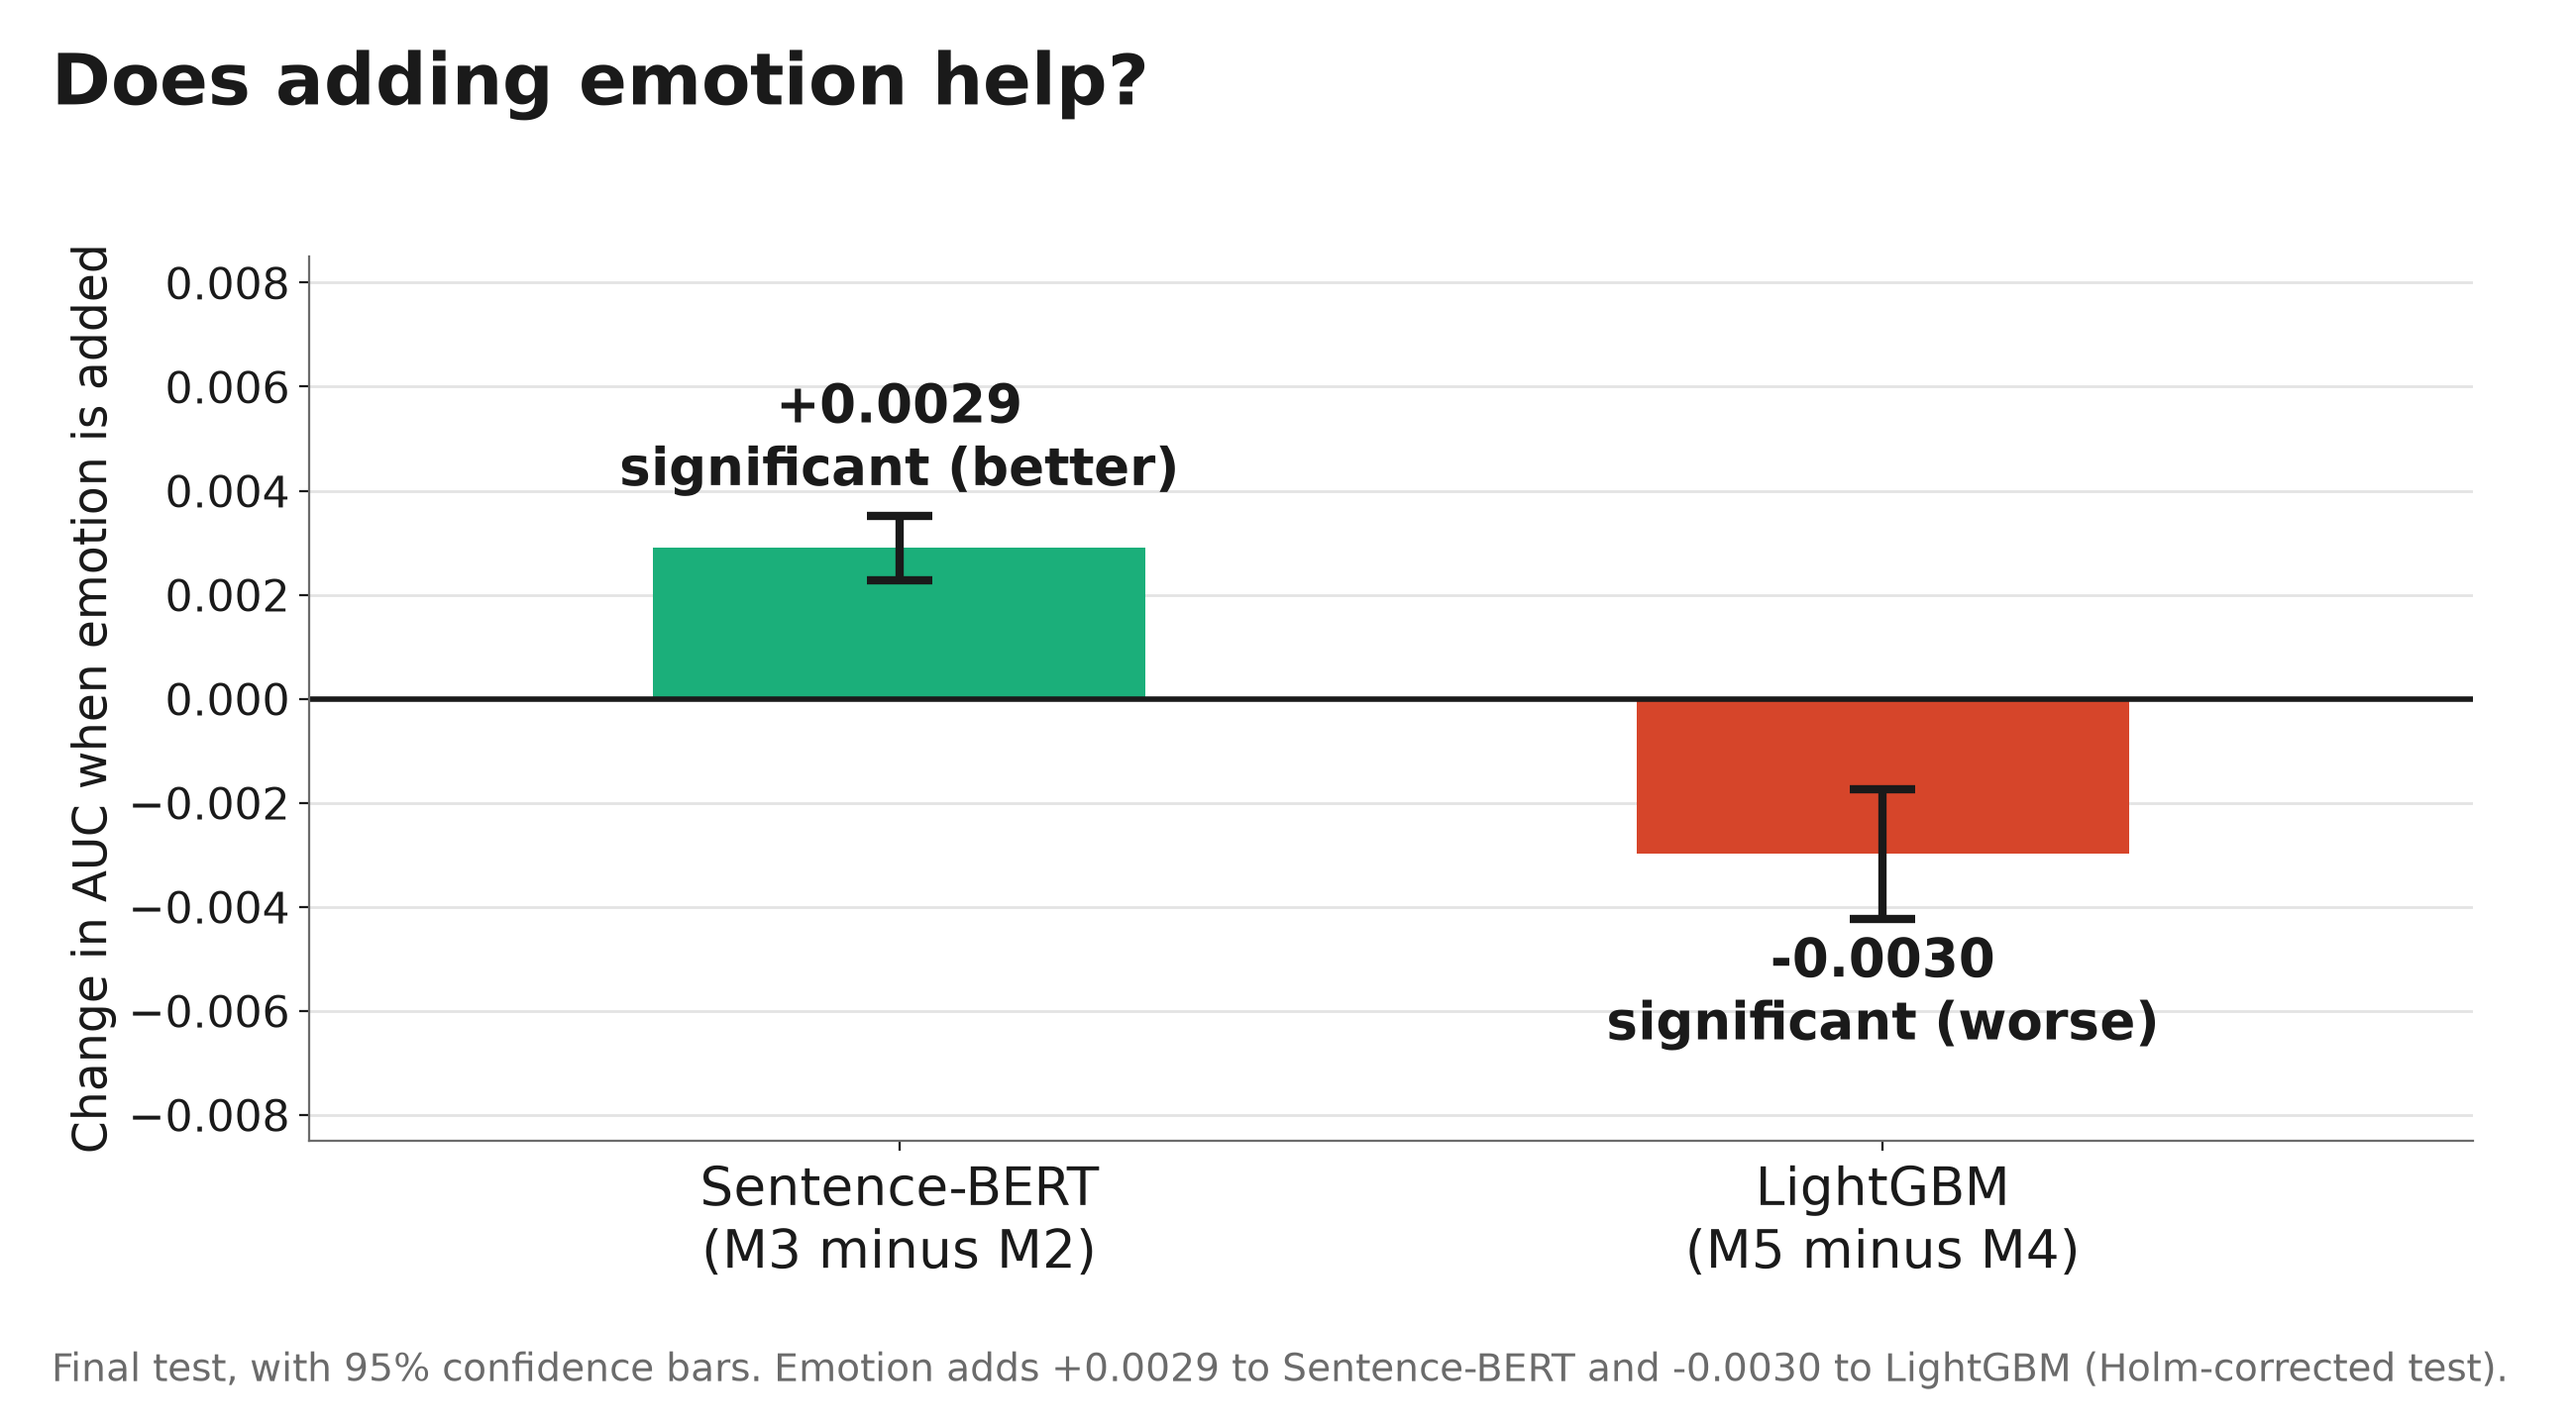
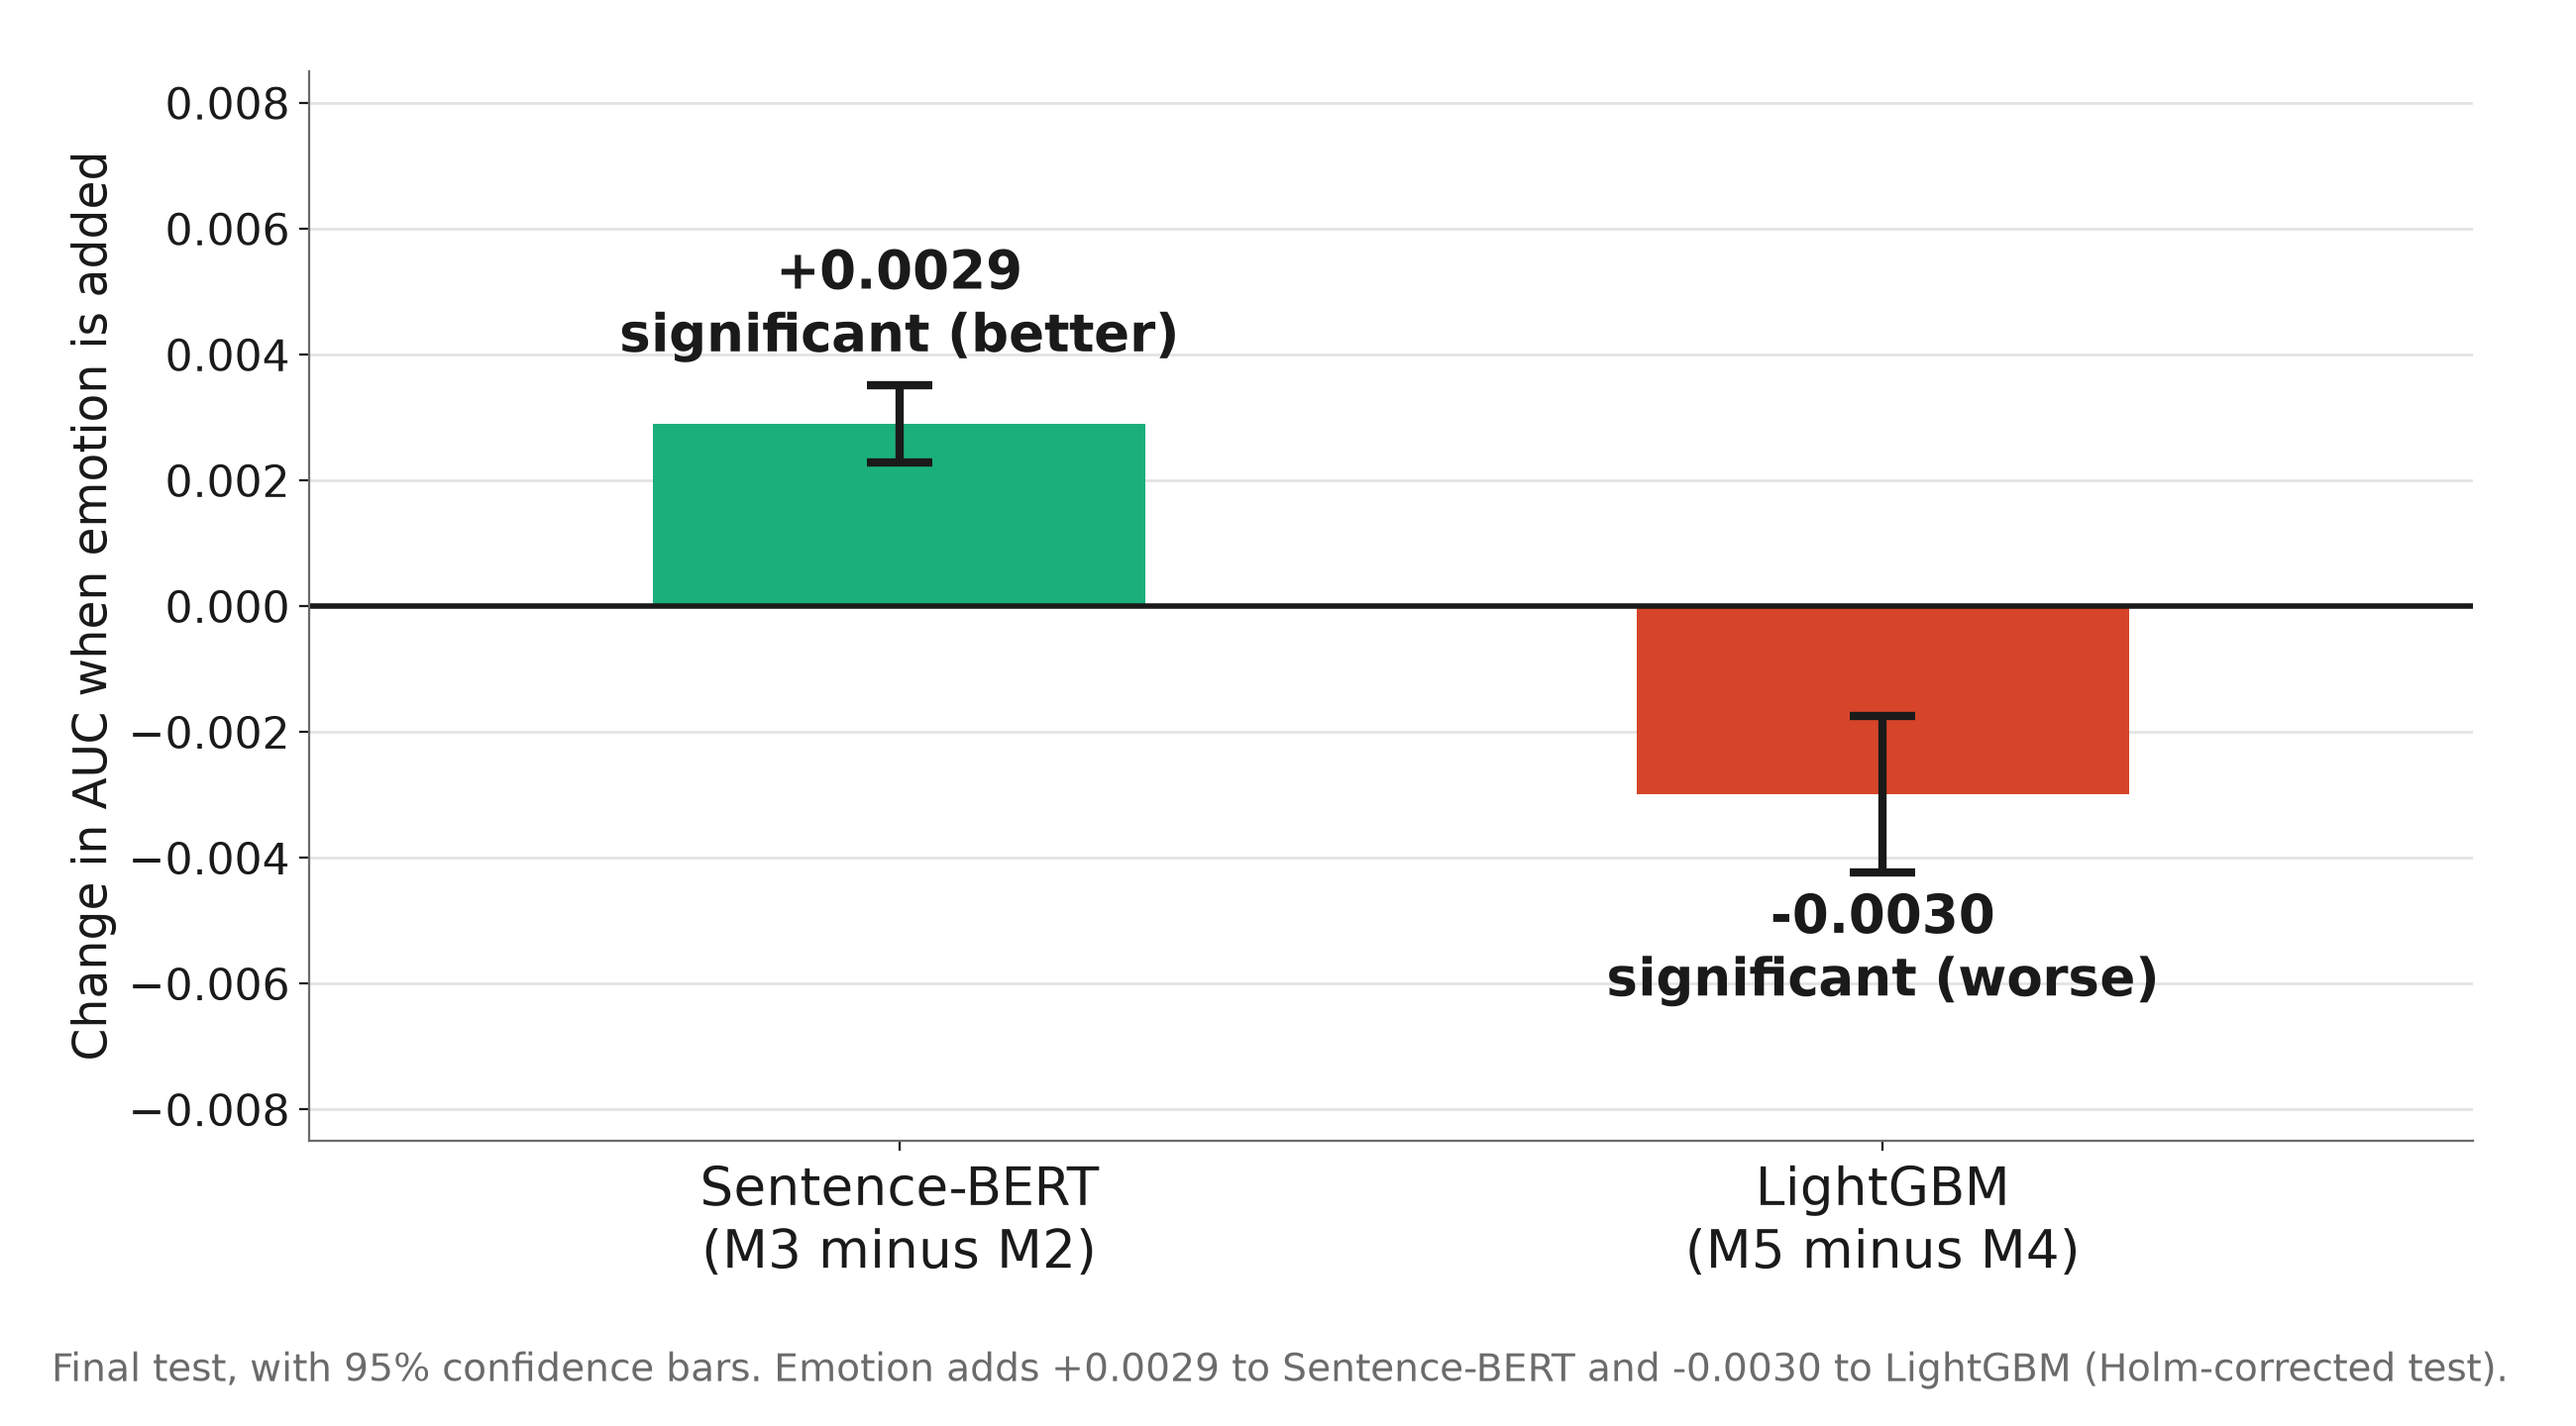
Presentation charts: remove titles (the slide carries them)

Changed region(s): [[0.0312, 0.125, 0.9658, 0.8125], [0.0, 0.0312, 0.4673, 0.0938]]

diff --git a/results/figures/presentation/make_charts.py b/results/figures/presentation/make_charts.py
@@ -19,8 +19,8 @@ BLUE, ORANGE, GREEN, RED, INK, GREY = "#2a78d6", "#eb6834", "#1baf7a", "#d6452a"
 plt.rcParams.update({"font.size": 16, "axes.edgecolor": GREY, "axes.labelcolor": INK, "xtick.color": INK, "ytick.color": INK})
 
 
-def finish(fig, name, title, caption):
-    fig.text(0.02, 0.965, title, fontsize=26, fontweight="bold", color=INK, ha="left", va="top")
+def finish(fig, name, caption):
+    """Save the chart with a one-line caption; no title, the slide carries it."""
     fig.text(0.02, 0.025, caption, fontsize=14, color=GREY, ha="left", va="bottom")
     fig.savefig(OUT / name, dpi=200, facecolor="white")
     plt.close(fig)
@@ -43,20 +43,20 @@ ladder = ladder[ladder["part"] == "dev"].sort_values("auc")
 
 # 1. dev AUC per model
 fig, ax = plt.subplots(figsize=(13, 7.2))
-fig.subplots_adjust(left=0.22, right=0.96, top=0.82, bottom=0.2)
+fig.subplots_adjust(left=0.22, right=0.96, top=0.95, bottom=0.2)
 frame(ax, "x")
 colors = [ORANGE if e else BLUE for e in ladder["emotion"]]
 ax.barh(ladder["label"], ladder["auc"], color=colors, height=0.62)
 for y, v in enumerate(ladder["auc"]):
     ax.text(v + 0.002, y, f"{v:.3f}", va="center", fontsize=18, fontweight="bold", color=INK)
 ax.axvline(0.5, color=INK, linestyle="--", linewidth=1.8)
-ax.text(0.5025, len(ladder) - 0.45, "random guessing", fontsize=15, color=INK, va="bottom")
+ax.text(0.5025, len(ladder) - 0.45, "random guessing", fontsize=16, color=INK, va="bottom")
 ax.set_xlim(0.45, 0.72)
 ax.set_xlabel("AUC on the final test (higher is better)", fontsize=17)
 ax.tick_params(axis="y", labelsize=18)
 ax.legend(handles=[Patch(color=BLUE, label="Without emotion"), Patch(color=ORANGE, label="With emotion")], loc="lower right", frameon=False, fontsize=16)
 best = ladder.iloc[-1]
-finish(fig, "1_how_well_each_model_ranks.png", "How well each model ranks clicked news",
+finish(fig, "1_how_well_each_model_ranks.png",
        f"Final test, {int(ladder['n'].iloc[0]):,} impressions. {best['label']} is best at {best['auc']:.3f}; the emotion versions are the orange bars.")
 
 # 2. does emotion help
@@ -64,7 +64,7 @@ m23 = auc_row(pd.read_csv(TABLES / "m2m3_comparison.csv"), "M2_sbert", "M3_sbert
 m45 = auc_row(pd.read_csv(TABLES / "m4m5_comparison.csv"), "M4_lightgbm", "M5_lightgbm_emotion")
 rows = [("Sentence-BERT\n(M3 minus M2)", m23), ("LightGBM\n(M5 minus M4)", m45)]
 fig, ax = plt.subplots(figsize=(13, 7.2))
-fig.subplots_adjust(left=0.12, right=0.96, top=0.82, bottom=0.2)
+fig.subplots_adjust(left=0.12, right=0.96, top=0.95, bottom=0.2)
 frame(ax, "y")
 for i, (name, r) in enumerate(rows):
     color = GREEN if r["mean_diff"] > 0 else RED
@@ -81,7 +81,7 @@ ax.set_xticks(range(len(rows)), [n for n, _ in rows], fontsize=19)
 ax.set_xlim(-0.6, len(rows) - 0.4)
 ax.set_ylim(-0.0085, 0.0085)
 ax.set_ylabel("Change in AUC when emotion is added", fontsize=17)
-finish(fig, "2_does_adding_emotion_help.png", "Does adding emotion help?",
+finish(fig, "2_does_adding_emotion_help.png",
        f"Final test, with 95% confidence bars. Emotion adds {m23['mean_diff']:+.4f} to Sentence-BERT and {m45['mean_diff']:+.4f} to LightGBM "
        "(Holm-corrected test).")
 
@@ -93,7 +93,7 @@ pick = [("anger", "goemotions_group"), ("fear", "goemotions_group"), ("joy", "go
 vals = [float(sem[(sem["gold"] == g) & (sem["source"] == s)]["spearman"].iloc[0]) for g, s in pick]
 names = [g for g, _ in pick]
 fig, ax = plt.subplots(figsize=(13, 7.2))
-fig.subplots_adjust(left=0.1, right=0.96, top=0.82, bottom=0.2)
+fig.subplots_adjust(left=0.1, right=0.96, top=0.95, bottom=0.2)
 frame(ax, "y")
 ax.bar(names, vals, color=[BLUE] * 5 + [ORANGE], width=0.62)
 for i, v in enumerate(vals):
@@ -103,7 +103,7 @@ ax.text(-0.45, 0.80, "dashed line = the minimum we required (0.2)", ha="left", f
 ax.set_ylim(0, 0.85)
 ax.set_ylabel("Agreement with human ratings\n(correlation, 1 = perfect)", fontsize=17)
 ax.tick_params(axis="x", labelsize=19)
-finish(fig, "3_do_emotion_scores_agree_with_humans.png", "Do our emotion scores agree with humans?",
+finish(fig, "3_do_emotion_scores_agree_with_humans.png",
        f"{int(sem['n'].iloc[0]):,} news headlines rated by people (SemEval-2007 test set). Orange = positive-versus-negative feeling (valence).")
 
 # M4 / M5 summary, in plain words
